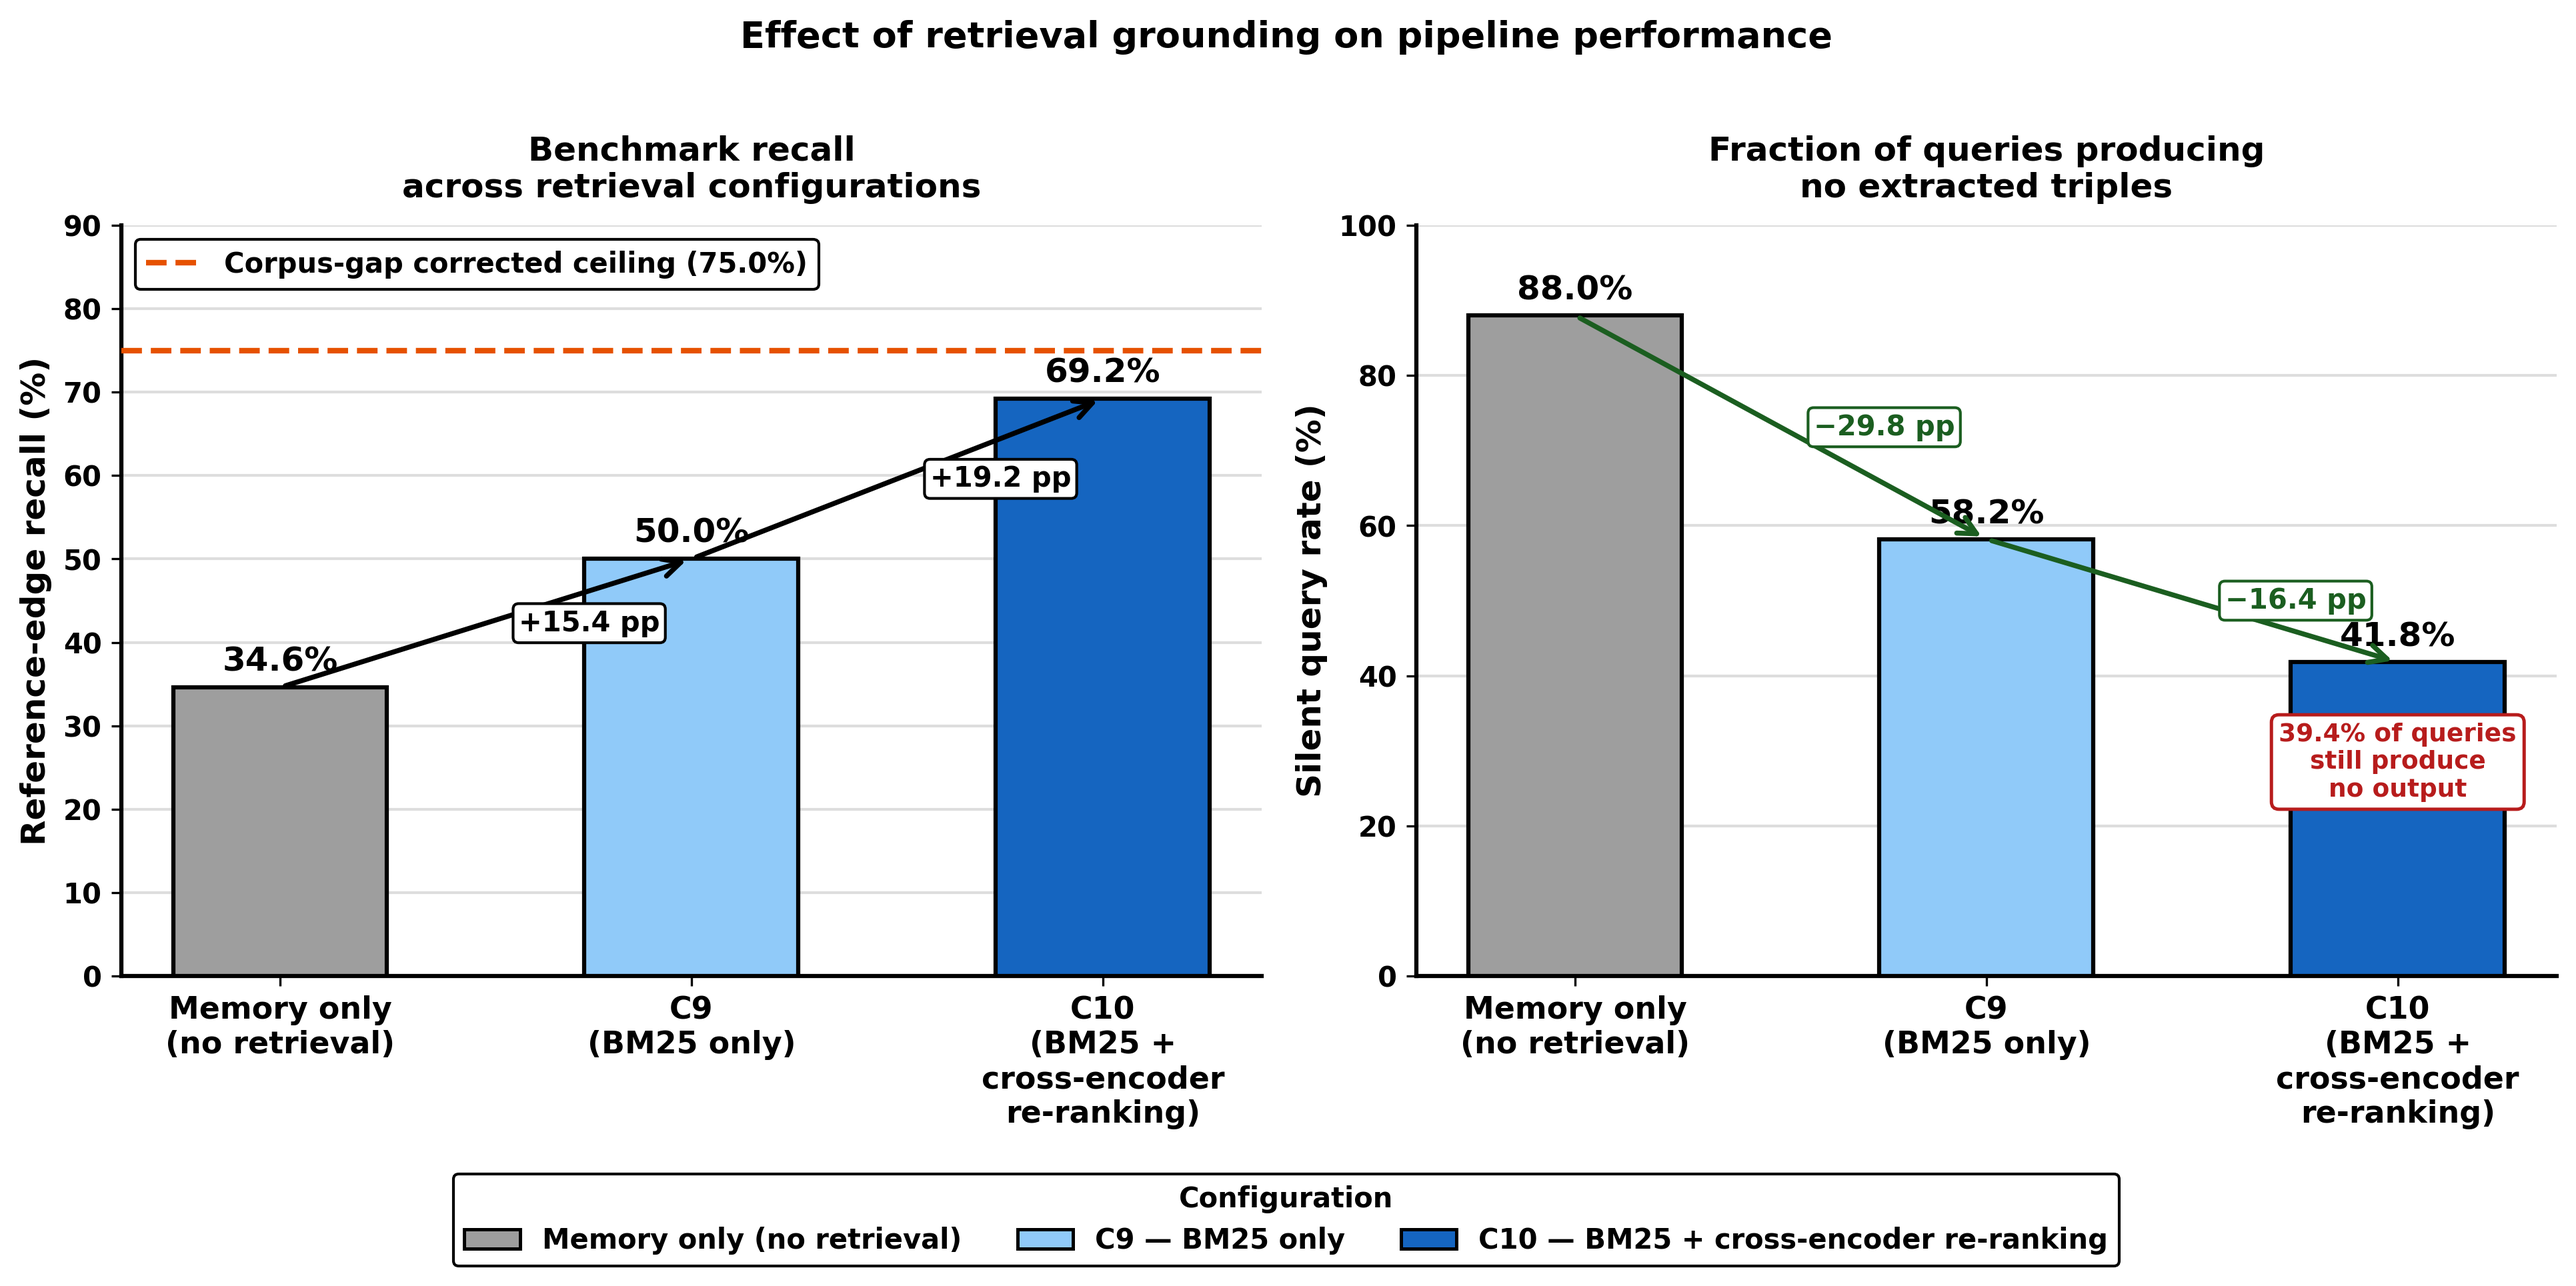
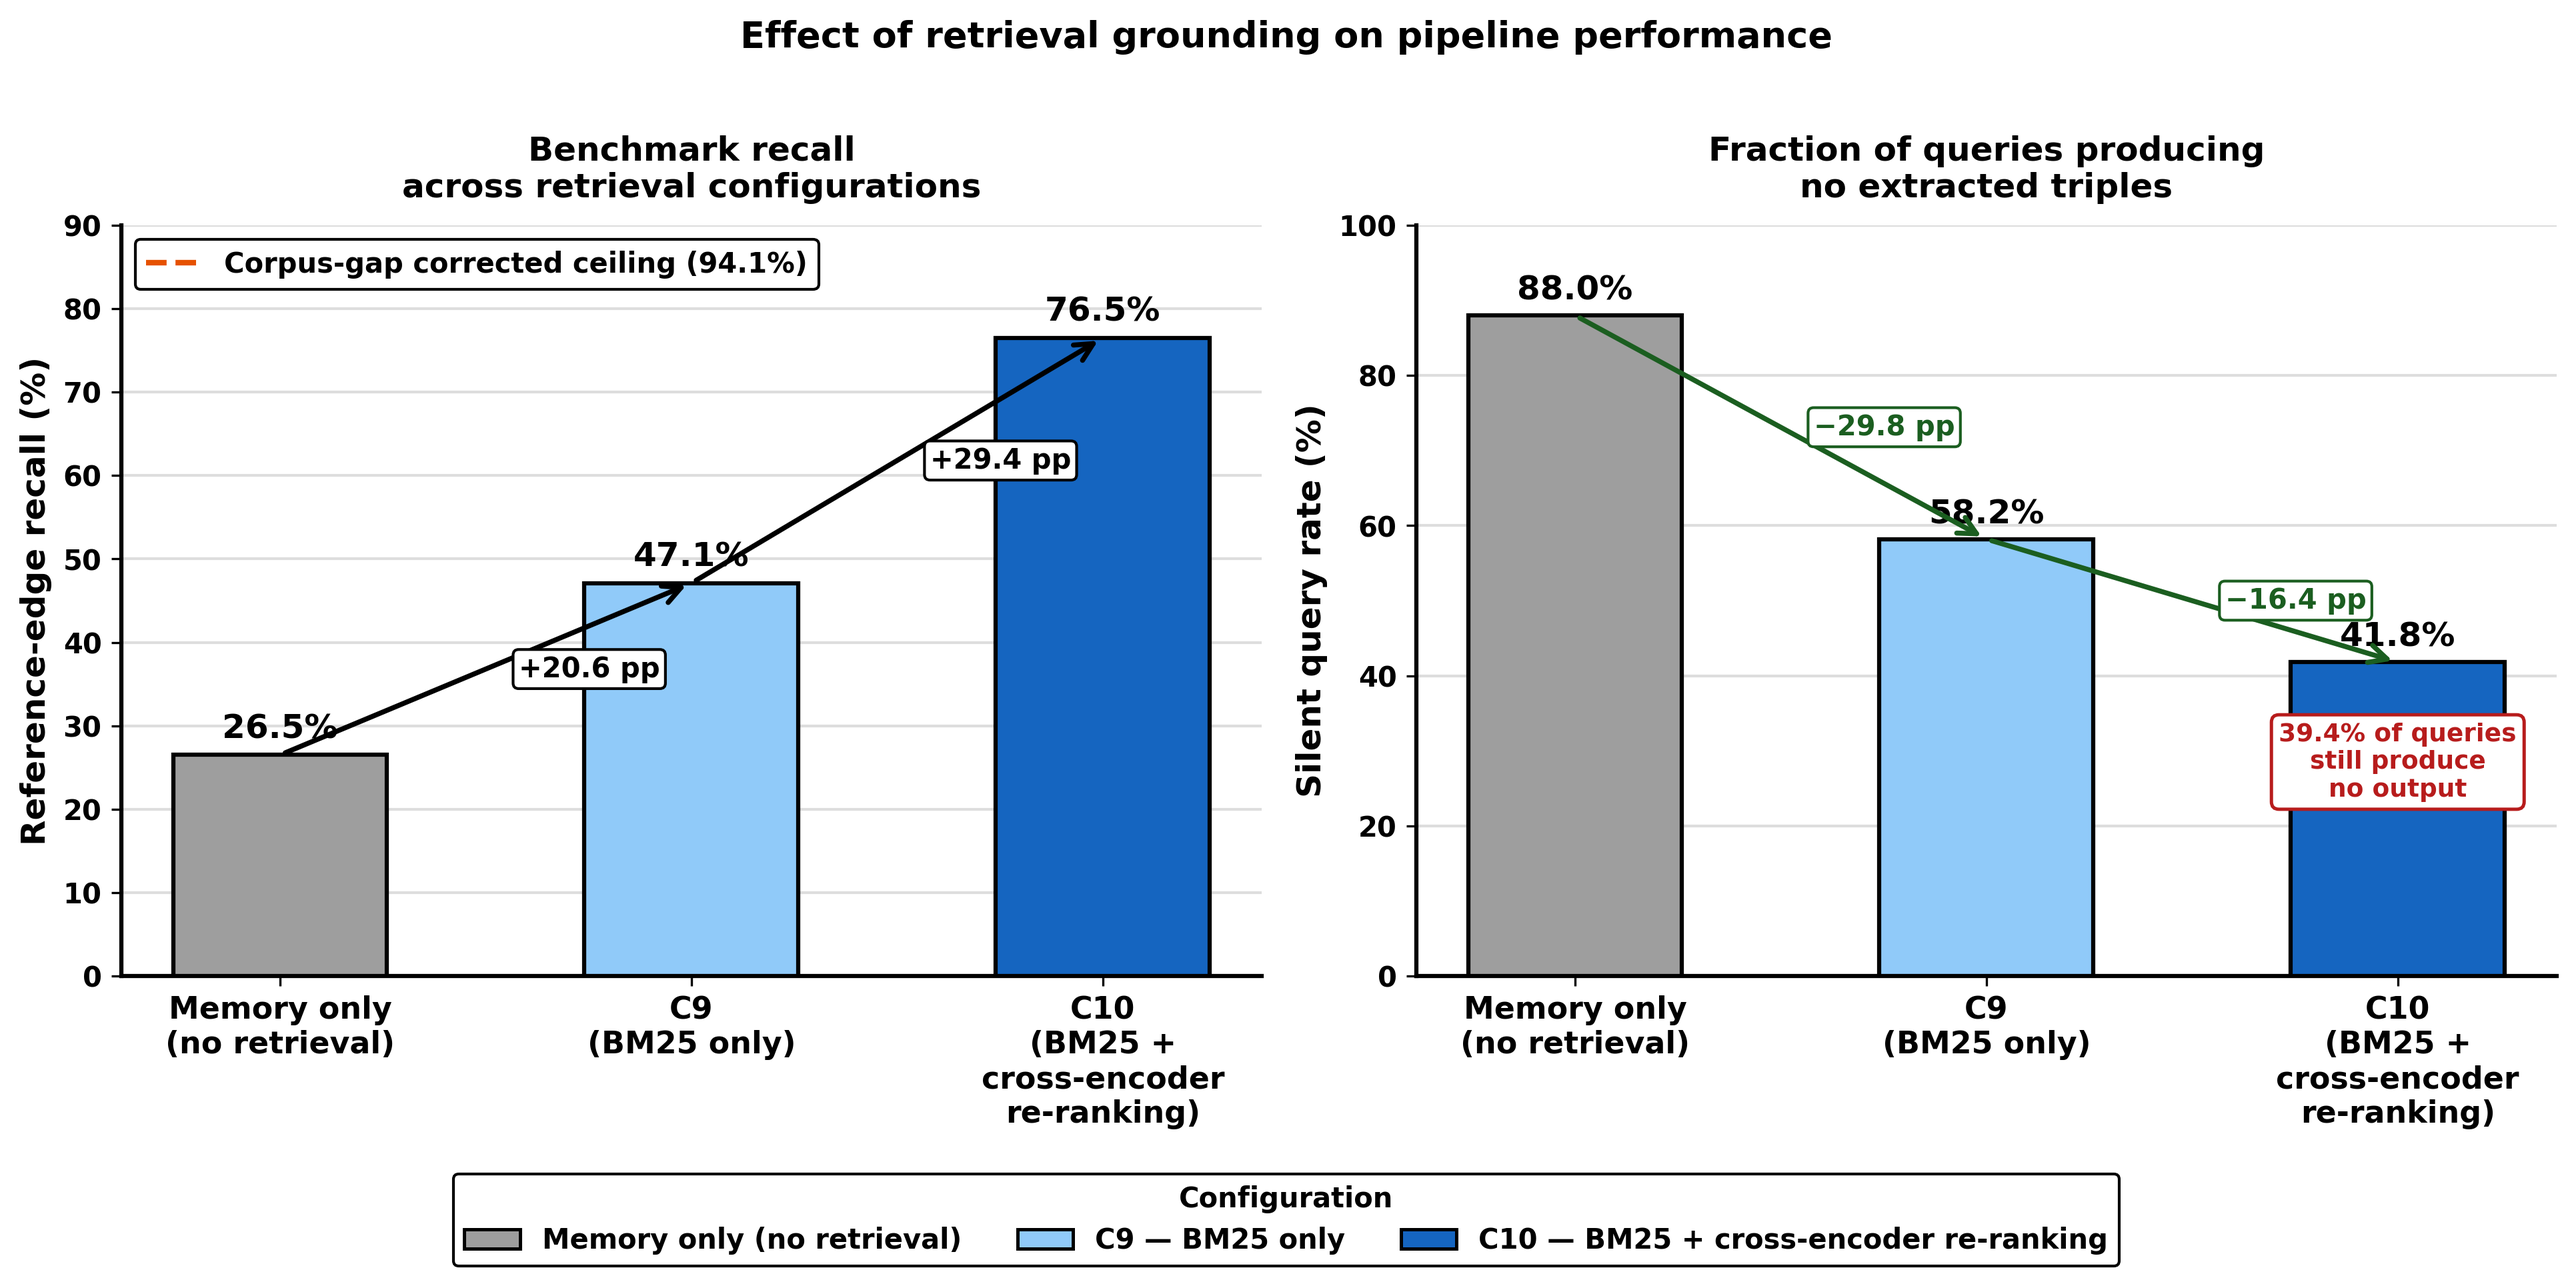
docs: update README with 34-edge benchmark, LLM-Rerank results (76.5% recall)
- New primary benchmark: 34-edge (26 original + 8 corpus-grounded extended edges)
- LLM-Rerank final recall: 76.5% (Tier 1+2), 47.1% (Tier 1)
- Memory-only baseline (Exp B): 26.5% — net retrieval gain +50.0 pp
- Cross-model agreement (Exp D): 96% with Llama-3.1-8B
- Corpus-gap corrected ceiling: 94.1% (32/34 recoverable)
- Config names updated: C9→LLM-BM25, C10→LLM-Rerank throughout
- Failure mode table added (2 corpus gaps, 3 retrieval, 6 extraction)
- Updated figures: fig_retrieval_comparison, fig_corpus_diagnostic

diff --git a/pipeline/07_final_metrics.py b/pipeline/07_final_metrics.py
@@ -148,8 +148,172 @@ def hallucination(triples):
     return {"strong_support": counts["strong"], "weak_support": counts["weak"],
             "not_supported": counts["not_supported"], "total": total,
             "hallucination_rate": rate}
+def compute_expert_metrics(protocol_path: str) -> dict:
+    """
+    Compute relaxed precision and Cohen's kappa from expert annotation.
+    Reads output/expert_annotation_protocol.json filled by Antoine.
+    Returns empty dict if no verdicts yet.
+    """
+    import json
+    from pathlib import Path
 
+    path = Path(protocol_path)
+    if not path.exists():
+        print(f"  Expert protocol not found: {path}")
+        return {}
 
+    protocol = json.load(open(path))
+    statements = protocol.get('statements', [])
+    filled = [s for s in statements
+              if s.get('verdict_expert') is not None]
+
+    if not filled:
+        pending = len(statements) - len(filled)
+        print(f"  Expert validation pending: "
+              f"0/{len(statements)} verdicts received.")
+        return {}
+
+    Y  = sum(1 for s in filled if s['verdict_expert'] == 'Y')
+    P  = sum(1 for s in filled if s['verdict_expert'] == 'P')
+    N  = sum(1 for s in filled if s['verdict_expert'] == 'N')
+    n  = len(filled)
+
+    relaxed = (Y + 0.5 * P) / n
+    strict  = Y / n
+
+    # Cohen's kappa: automated verifier vs expert
+    auto_map = {
+        'STRONG_SUPPORT': 'Y',
+        'WEAK_SUPPORT':   'P',
+        'NOT_SUPPORTED':  'N',
+        'UNCERTAIN':      'P'
+    }
+    cats    = ['Y', 'P', 'N']
+    cat_idx = {c: i for i, c in enumerate(cats)}
+    n_cat   = len(cats)
+
+    conf = [[0] * n_cat for _ in range(n_cat)]
+    for s in filled:
+        a = auto_map.get(s.get('verdict_automated', ''), 'P')
+        h = s['verdict_expert']
+        if a in cat_idx and h in cat_idx:
+            conf[cat_idx[a]][cat_idx[h]] += 1
+
+    total = sum(sum(row) for row in conf)
+    po    = sum(conf[i][i] for i in range(n_cat)) / total
+    pe    = sum(
+        (sum(conf[i][j] for j in range(n_cat)) *
+         sum(conf[j][i] for j in range(n_cat)))
+        for i in range(n_cat)
+    ) / (total ** 2)
+    kappa = (po - pe) / (1 - pe) if pe < 1 else 0.0
+
+    if   kappa >= 0.8: interp = 'almost perfect'
+    elif kappa >= 0.6: interp = 'substantial'
+    elif kappa >= 0.4: interp = 'moderate'
+    else:              interp = 'fair'
+
+    print(f"\n{'='*50}")
+    print(f"  EXPERT VALIDATION METRICS")
+    print(f"{'='*50}")
+    print(f"  Annotated: {n}/{len(statements)}")
+    print(f"  Y={Y}  P={P}  N={N}")
+    print(f"  Strict precision:  {strict*100:.1f}%")
+    print(f"  Relaxed precision: {relaxed*100:.1f}%")
+    print(f"  Cohen kappa:       {kappa:.3f} ({interp})")
+
+    # By relation type
+    by_rel = {}
+    for s in filled:
+        r = s['triple']['relation']
+        by_rel.setdefault(r, []).append(s['verdict_expert'])
+    print(f"\n  Precision by relation:")
+    for rel, verdicts in sorted(by_rel.items()):
+        y = verdicts.count('Y')
+        p = verdicts.count('P')
+        nn = verdicts.count('N')
+        rp = (y + 0.5*p) / len(verdicts)
+        print(f"    {rel:<20} Y={y} P={p} N={nn}  "
+              f"relaxed={rp*100:.0f}%")
+
+    # LaTeX line for Section 5.3
+    print(f"\n  LATEX FOR SECTION 5.3:")
+    print(f"  Of {n} sampled Tier-1 triples, {Y} were rated \\emph{{Y}}, "
+          f"{P} rated \\emph{{P}}, and {N} rated \\emph{{N}}, "
+          f"yielding a relaxed precision of {relaxed*100:.1f}\\% "
+          f"(strict: {strict*100:.1f}\\%). "
+          f"Cohen's $\\kappa = {kappa:.2f}$ ({interp} agreement).")
+
+    return {
+        'n': n, 'Y': Y, 'P': P, 'N': N,
+        'relaxed_precision': relaxed,
+        'strict_precision':  strict,
+        'kappa':             kappa,
+        'interpretation':    interp
+    }
+def compute_generalization_metrics(
+    gen_protocol_path: str,
+    dev_protocol_path: str
+) -> dict:
+    """
+    Computes precision on generalization corpus and compares with development.
+    gen_protocol_path = output/generalization_annotation_protocol.json
+    dev_protocol_path = output/expert_annotation_protocol.json
+    """
+    import json
+    from pathlib import Path
+
+    gen_path = Path(gen_protocol_path)
+    dev_path = Path(dev_protocol_path)
+
+    if not gen_path.exists():
+        print(f"  Generalization protocol not found: {gen_path}")
+        return {}
+
+    gen = json.load(open(gen_path))
+    filled_gen = [s for s in gen['statements']
+                  if s.get('verdict_expert') is not None]
+
+    if not filled_gen:
+        print(f"  Generalization validation pending: "
+              f"0/{len(gen['statements'])} verdicts.")
+        return {}
+
+    Y  = sum(1 for s in filled_gen if s['verdict_expert'] == 'Y')
+    P  = sum(1 for s in filled_gen if s['verdict_expert'] == 'P')
+    N  = sum(1 for s in filled_gen if s['verdict_expert'] == 'N')
+    n  = len(filled_gen)
+    gen_relaxed = (Y + 0.5 * P) / n
+
+    print(f"\n{'='*55}")
+    print(f"  GENERALIZATION VALIDATION")
+    print(f"{'='*55}")
+    print(f"  Annotated: {n}/{len(gen['statements'])}")
+    print(f"  Y={Y}  P={P}  N={N}")
+    print(f"  Relaxed precision: {gen_relaxed*100:.1f}%")
+
+    # Compare with development corpus precision
+    if dev_path.exists():
+        dev = json.load(open(dev_path))
+        filled_dev = [s for s in dev['statements']
+                      if s.get('verdict_expert') is not None]
+        if filled_dev:
+            Yd = sum(1 for s in filled_dev if s['verdict_expert'] == 'Y')
+            Pd = sum(1 for s in filled_dev if s['verdict_expert'] == 'P')
+            dev_relaxed = (Yd + 0.5 * Pd) / len(filled_dev)
+            diff = gen_relaxed - dev_relaxed
+            print(f"  Dev corpus precision:  {dev_relaxed*100:.1f}%")
+            print(f"  Difference:            {diff*100:+.1f} pp")
+            if abs(diff) <= 0.10:
+                verdict = "GENERALIZATION HOLDS (within 10pp)"
+            elif diff < -0.10:
+                verdict = "PRECISION DROP on new corpus"
+            else:
+                verdict = "PRECISION HIGHER on new corpus"
+            print(f"  {verdict}")
+
+    return {'n': n, 'Y': Y, 'P': P, 'N': N,
+            'relaxed_precision': gen_relaxed}
 def main():
     parser = argparse.ArgumentParser()
     parser.add_argument("--kg", required=True)

diff --git a/pipeline/plot_retrieval_comparison.py b/pipeline/plot_retrieval_comparison.py
@@ -14,7 +14,7 @@ BG = '#FFFFFF'
 
 configs      = ['Memory only\n(no retrieval)', 'C9\n(BM25 only)',
                 'C10\n(BM25 +\ncross-encoder\nre-ranking)']
-recall       = [34.6, 50.0, 69.2]
+recall       = [26.5, 47.1, 76.5]
 silent       = [88.0, 58.2, 41.8]
 bar_colors   = ['#9E9E9E', '#90CAF9', '#1565C0']
 edge_colors  = ['#000000', '#000000', '#000000']
@@ -35,8 +35,8 @@ bars1 = ax1.bar(x, recall, WIDTH,
                 zorder=3)
 
 # Corpus-gap corrected ceiling
-ax1.axhline(75.0, color='#E65100', lw=2.0, ls='--', zorder=4,
-            label='Corpus-gap corrected ceiling (75.0%)')
+ax1.axhline(94.1, color='#E65100', lw=2.0, ls='--', zorder=4,
+            label='Corpus-gap corrected ceiling (94.1%)')
 
 # Value labels on bars
 for bar, val in zip(bars1, recall):
